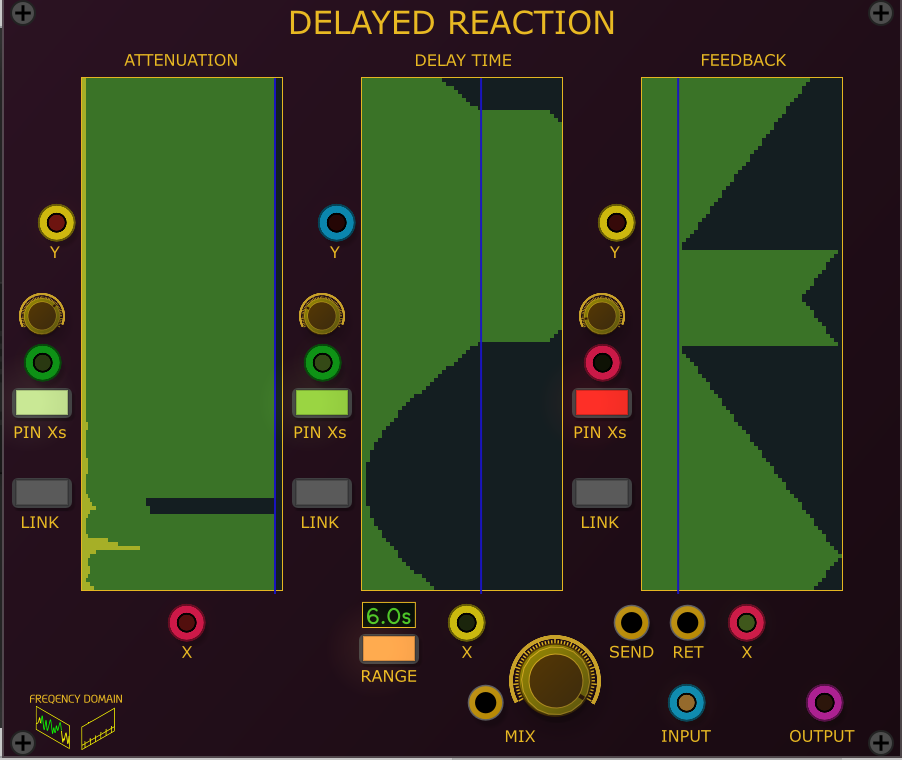
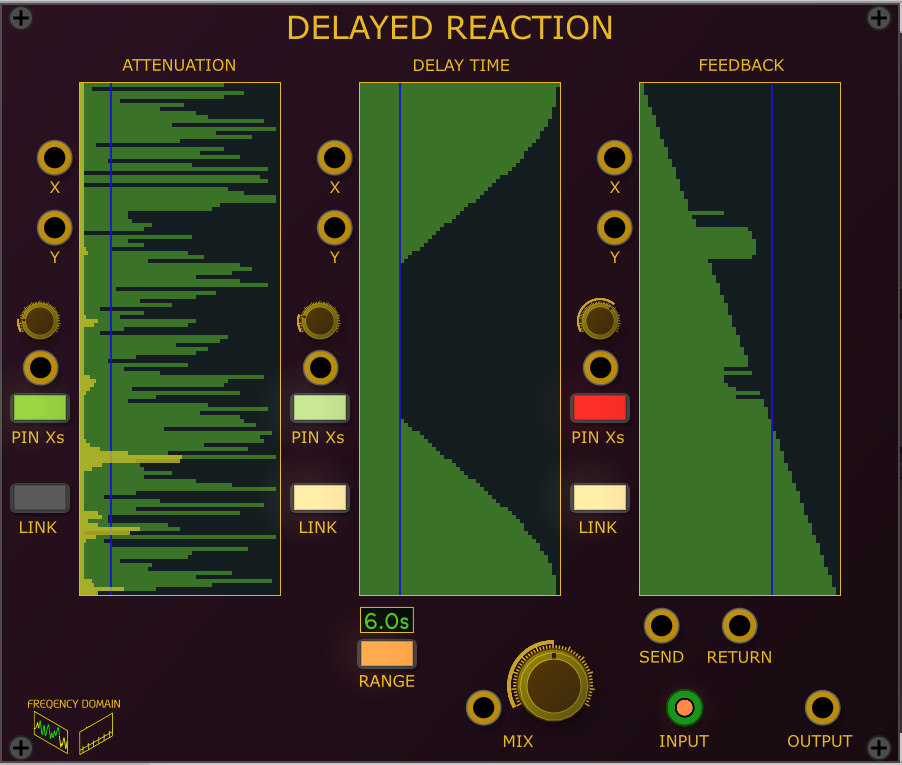
1.3 Release

diff --git a/README.md b/README.md
@@ -55,5 +55,7 @@ This is great for creating inharmonic sounds
 - Frequency bands can be placed individually in the stereo field
 - Band spread allows frequency bands to modulate their neighbors.
 - Inverter buttons make loudest frequency bands the quietest and vice-versa
+- Each input has a CV controllable Invert threshold which determines how loud a band must be for it to be inverted.  
+At low thresholds the input can become very noisey  
 - Right click to adjust Windowing Function and Frame Size
 - Right click on grids to choose from default shapes or transform patterns

diff --git a/CHANGELOG.md b/CHANGELOG.md
@@ -1,3 +1,8 @@
+### 1.3.0 (202-04-21)
+- Added Invert Thresholds to Morphology
+- Improved AM sound in Harmonic Convergence
+- Minor UI improvements
+
 ### 1.2.0 (2020-04-18)
 - Added Pin X axis modes with CV controlable Axis to Morphology
 
